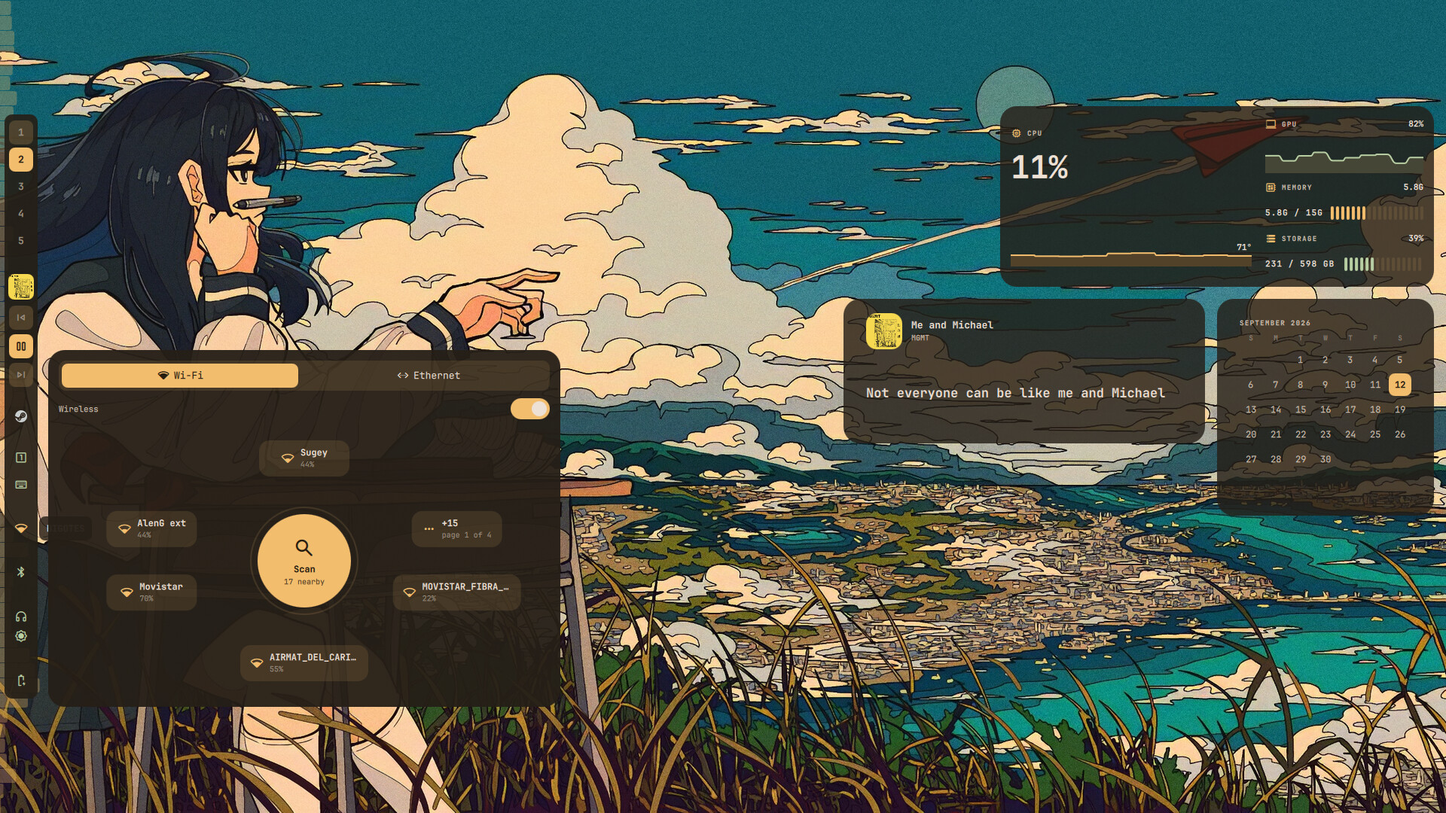
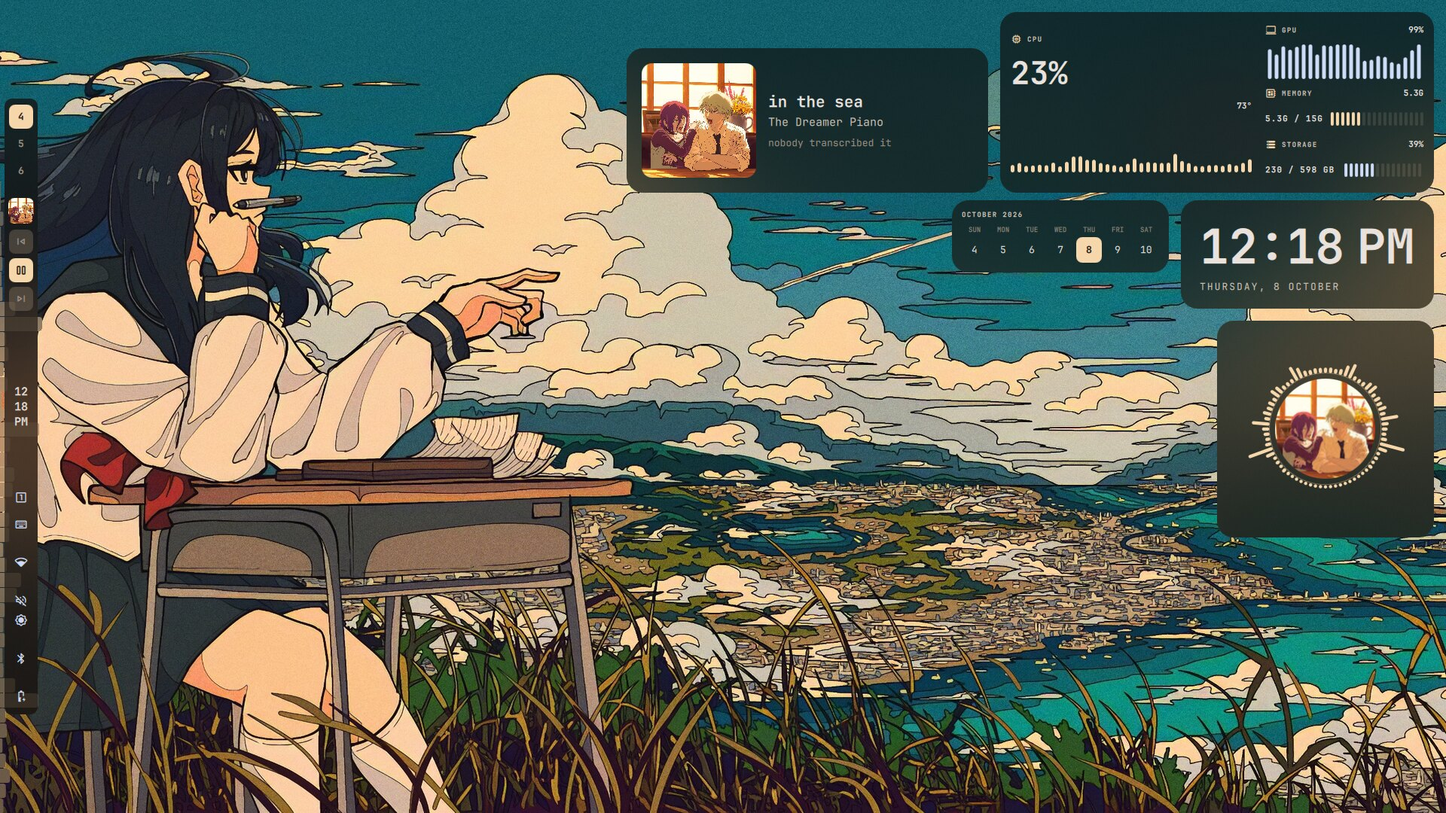
docs(readme): 3.2.0 -- new previews, two screens, glass, the new login and installer

diff --git a/README.md b/README.md
@@ -29,12 +29,12 @@ A monochrome Hyprland + Quickshell rice for Arch.
 ## Previews
 
 <p align="center">
-  <img src="previews/preview1.jpg" alt="Desktop widgets and the battery panel on a teal manga wallpaper" width="49%">
-  <img src="previews/preview2.jpg" alt="Network panel from a side bar, with the machine, lyrics and calendar widgets" width="49%">
+  <img src="previews/preview1.jpg" alt="Desktop widgets and the battery panel, glass bar on top" width="49%">
+  <img src="previews/preview2.jpg" alt="A side bar with the music, machine, calendar, clock and visualiser widgets" width="49%">
 </p>
 <p align="center">
-  <img src="previews/preview3.jpg" alt="Media panel with lyrics and the cava visualiser" width="49%">
-  <img src="previews/preview4.jpg" alt="The machine widget, every reading drawn as ticks" width="49%">
+  <img src="previews/preview3.jpg" alt="The music panel, cover on top, beside the visualiser and sun widgets" width="49%">
+  <img src="previews/preview4.jpg" alt="The process monitor, every reading drawn as ticks, and the dock" width="49%">
 </p>
 
 ---
@@ -65,11 +65,18 @@ It draws five steps and rewrites them in place as it goes:
   · folders
 ```
 
+- **The system is brought up to date first** (`pacman -Syu`). Installing
+  against a stale package database is how a fresh machine hits 404s, and a
+  refresh without the upgrade is a partial upgrade, which Arch does not support.
 - **Packages, one transaction each.** `pacman -S a b c` is atomic: one bad name
   and the other fifty-nine never install. That is how a fresh machine came up
   with no Nerd Font and nothing said about it. Here a package that fails is
   printed above the steps — so it survives the redraw — and named again at the
   end with the command to retry it.
+- **An AUR helper if there is none.** `yay` is built from the AUR when the
+  machine has neither `paru` nor `yay` (vanilla Arch and Manjaro ship none), and
+  anything the official repos could not give is asked of the AUR before it
+  counts as a failure.
 - **Dotfiles**, by symlink from the checkout, so editing `~/.config/hypr/…` edits
   the repo and there is no second copy to keep in sync.
 - **The login screen**, if `sddm` is installed. It is never switched blind: the
@@ -78,6 +85,10 @@ It draws five steps and rewrites them in place as it goes:
   and with the command to undo it printed at the end.
 - **Services** (`NetworkManager`, `bluetooth`, `power-profiles-daemon`), the
   `video` group, and the XDG folders the scripts expect by their English names.
+
+Installed from scratch, with no failures, on **Arch, Manjaro, CachyOS,
+EndeavourOS and Garuda**. Distributions without systemd (Artix) are not
+supported yet: the services step uses `systemctl`.
 
 It ends by asking you to **reboot** — this changed the login screen, enabled
 system services and added you to a group, and a logout shows none of that.
@@ -147,19 +158,29 @@ screen, driven by a Hyprland config written in **Lua** (`hypr/`).
   bluetooth, sound, battery, CPU and memory, power. Every capsule can be dragged
   to either end or the centre of any of the four edges, and each one chooses how
   much it says — `full`, `compact` or `icon`, offered only where they differ.
-  Four shapes for the bar itself — pills, island, solid, framed — and an outline
-  switch that draws the plate of whichever shape is in use instead of filling it.
+  Four shapes for the bar itself — pills, island, solid, framed.
+- **Look** — every surface solid or glass (*Blur*: the terminal's own
+  translucency, with Hyprland's blur behind), and one outline switch for the
+  whole shell or part by part.
 - **Dock** — pinned and open applications on an edge of your choosing. A click
   launches, focuses, or hides to a special workspace, in that order; a
   right-click pins or unpins, and Settings has the list with a search.
 - **Panels** — every pill opens a panel that grows out of it and leaves the same
-  way. Their own outline switch, separate from the bar's.
-- **Lock screen** — its own `WlSessionLock` surface: padlock intro, PAM auth,
-  blurred wallpaper, media card with a live Cava visualiser, battery and power
-  profiles.
-- **Login screen** — an SDDM theme drawn with the shell's own bar and mark.
+  way, or opens like a window from the bar's edge. They share one language —
+  tinted plates, one radius, one type scale — and never stick out past the bar.
+- **Lock screen** — its own `WlSessionLock` surface: padlock, fade or no intro,
+  PAM auth, blurred wallpaper, media card with a live Cava visualiser, battery
+  and power profiles, and a switch to show the password as you type it.
+- **Login screen** — an SDDM theme laid out like the lock screen: the time large,
+  who, the password, the session and the ways out in the corners. It carries no
+  name, so it suits any desktop.
 - **Desktop widgets** — clock, weather, updates, media, calendar, machine, placed
-  by dragging them where you want them. Outline switch of their own too.
+  by dragging them where you want them. Right-click one for its shapes, sizes,
+  the other screen, or to remove it.
+- **Two screens** — arrange them on a grid, mirror one, or let workspaces spread
+  over them (1-5 / 6-10, or evens on one and odds on the other); each bar shows
+  its own. Widgets and wallpapers live on a screen of their own, and the whole
+  arrangement comes back when a screen is plugged in again.
 - **Screen time** — how long each application had you today and across the
   week, counted only while you are at the machine. A panel, an optional pill and
   a desktop widget; the numbers never leave `~/.config/ashen`.
@@ -170,7 +191,7 @@ screen, driven by a Hyprland config written in **Lua** (`hypr/`).
   wallpaper on each screen when more than one is plugged in.
 - **Process monitor** — CPU, GPU and traffic drawn as the last minute of samples,
   memory, drives and temperatures as levels.
-- **Launcher, clipboard, emoji picker, glyph picker, settings.**
+- **Launcher, clipboard, and Settings with a search** that takes you to the row.
 - **Four languages** — English, Spanish, Russian and German, switched on the spot.
 - **Dynamic theming** — the wallpaper picker runs `matugen` over the image you
   choose and the whole shell re-colours from `~/.cache/ashen_scheme.json`.
